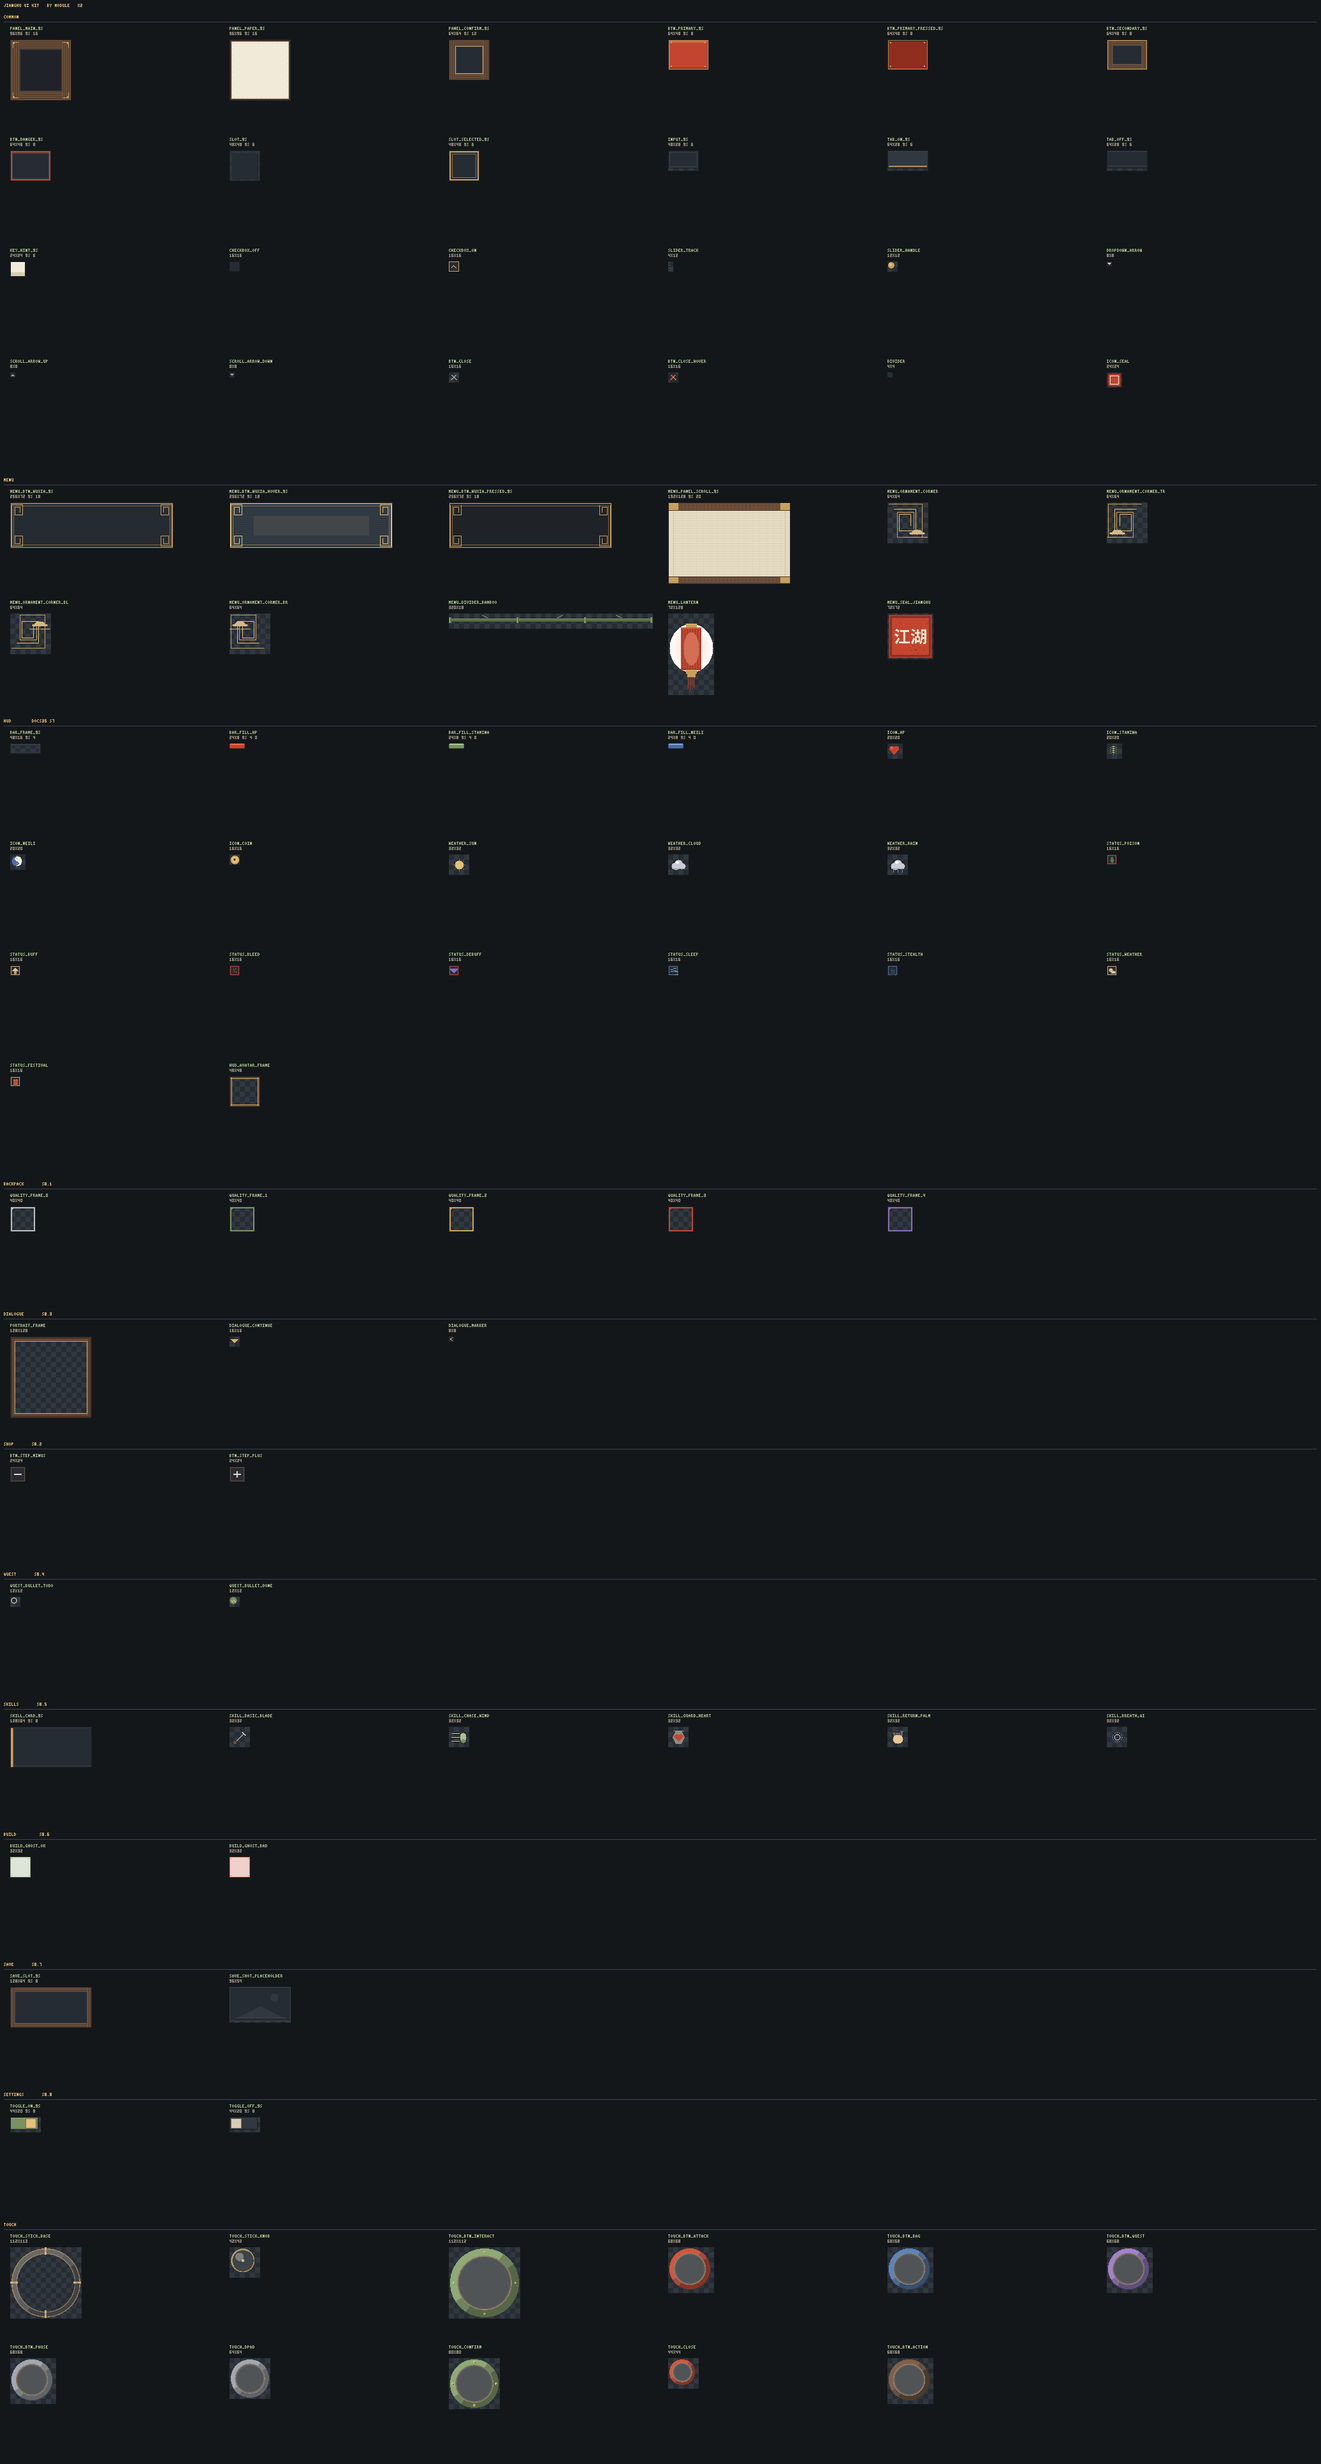
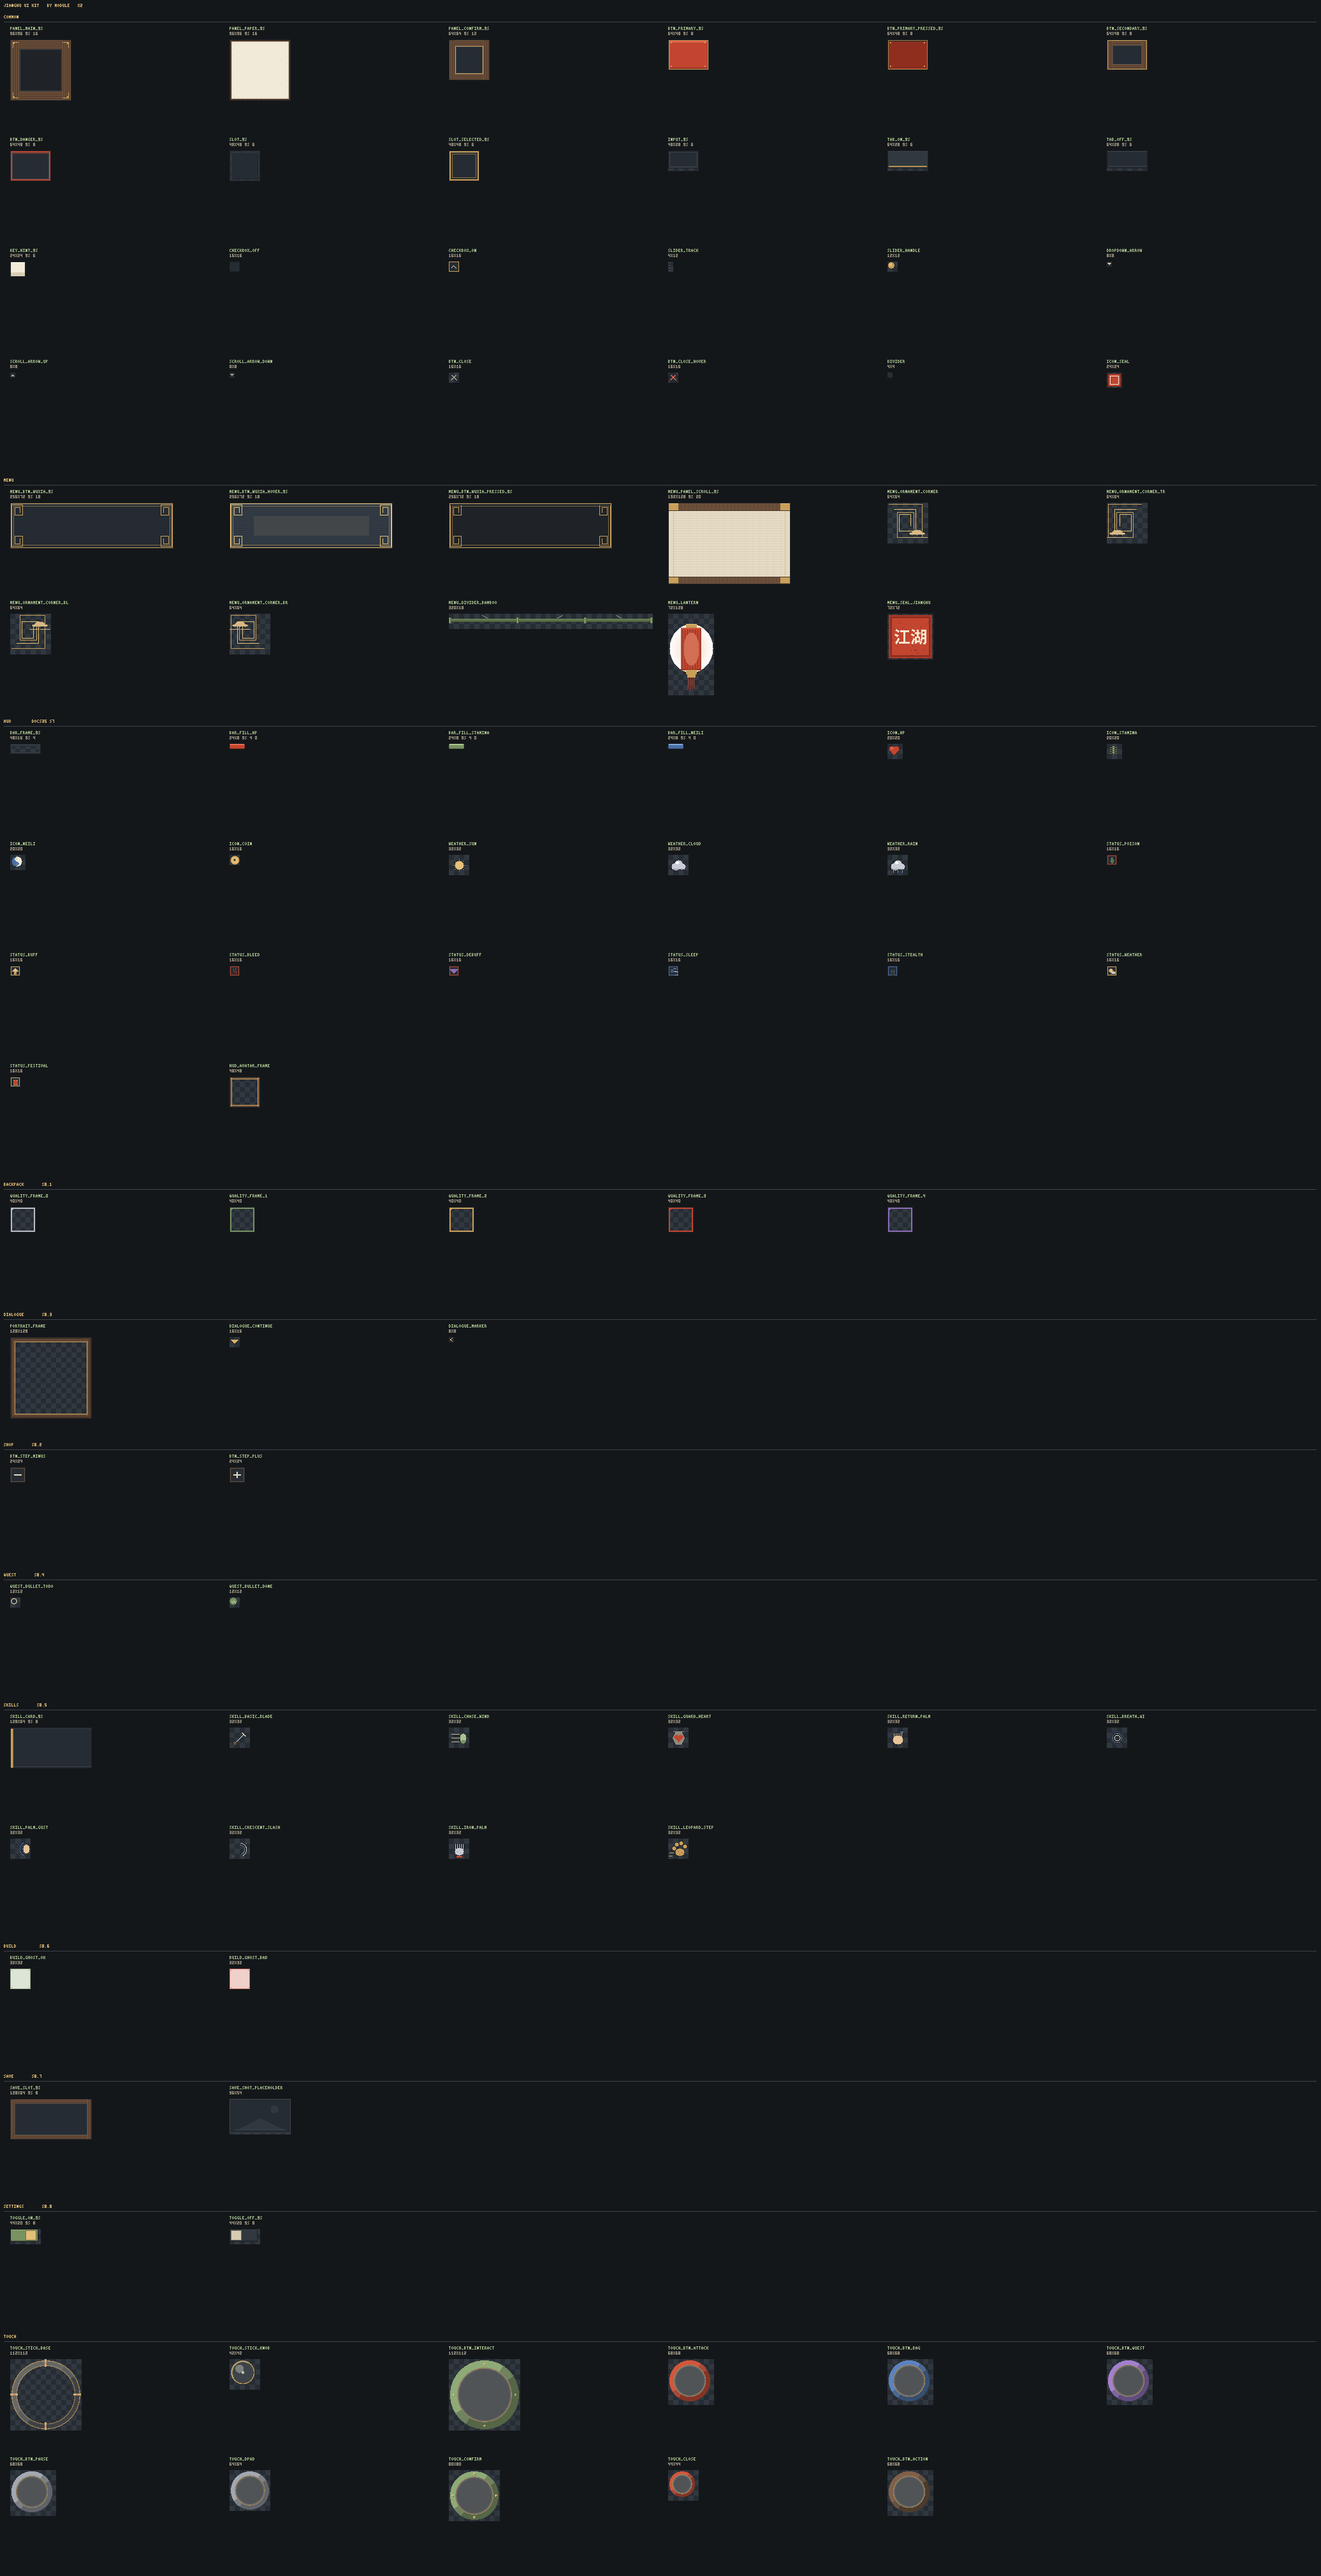
补齐招式图标：SKILL_ICON_KEYS 从 3/7 到 7/7，走生成器出图不凭空画
docs/45 从 M70 那批就登记了这条欠账（四张空卡底），并写明补法要走 gen_ui_art 出图。
新增 palm_gust/crescent_slash/iron_palm/leopard_step 四个 kind（图标名跟 data 层的
招式 id 对齐，不是"豹跃"的直译），skills 模块 6→10 张、全套 96 张；重出幂等：
其余 92 张既有切图逐字节不变。

m70 黄金表的图标探针原本只有 skill_icon1..2（那就是当时的现状），按 skill_name1..8
的排法补到 8 格，表体 124→136 行；先红后刷（不改表时红在第 65 行 hidden 对不上）。
webgl 门 ui elements 34→38、prefab_slice 81/9；微信 19 条 harness_ok；
两包 package.ps1 -SkipBuild 重打，pack 里 10 张招式贴图 HTTP 200 可读。

diff --git a/examples/game_jhyt/tools/gen_ui_art.py b/examples/game_jhyt/tools/gen_ui_art.py
@@ -642,6 +642,50 @@ def skill_icon(kind):
                 angle = step / 28.0 * 6.28318
                 cv.set(16 + int(radius * math.cos(angle)), 16 + int(radius * math.sin(angle)), color)
         cv.set(16, 16, INDIGO500)
+    elif kind == "palm_gust":
+        import math
+
+        skin = rgb("#E8C49A")
+        # 千风掌：右侧一掌推出，左侧四道同心风弧逐层收短——"千风"读的是弧的层数，
+        # 不画五指，免得与回风掌/铁砂掌同骨架、三张并排看像同一式。
+        fill_ellipse(cv, 25, 16, 5, 7, skin)
+        for index, radius in enumerate((20, 16, 12, 8)):
+            color = INDIGO500 if index % 2 == 0 else INDIGO300
+            for step in range(16):
+                angle = -0.85 + step / 15.0 * 1.7
+                x = 30 - int(radius * math.cos(angle))
+                y = 16 - int(radius * math.sin(angle) * 0.9)
+                if 0 <= x <= 31 and 0 <= y <= 31 and not cv.opaque(x, y):
+                    cv.set(x, y, color)
+    elif kind == "crescent_slash":
+        import math
+
+        # 两段同心圆弧相减 = 月牙：外刃 IRON、内缘 IRON_DARK，两端各留一粒火花。
+        for step in range(30):
+            angle = -1.15 + step / 29.0 * 2.6
+            cos, sin = math.cos(angle), math.sin(angle)
+            cv.set(16 + int(11 * cos), 17 - int(11 * sin), IRON)
+            cv.set(16 + int(8 * cos), 17 - int(8 * sin), IRON_DARK)
+        cv.set(5, 27, PAPER50)
+        cv.set(26, 7, PAPER50)
+    elif kind == "iron_palm":
+        # 正掌（与回风掌同骨架：五指各留一缝，靠描边分开）：铁色掌面 + 两粒铁砂 + 朱色腕带。
+        fill_ellipse(cv, 16, 20, 7, 6, IRON)
+        for x in (10, 13, 16, 19, 22):
+            cv.vline(x, 8, 17, IRON)
+            cv.set(x, 8, IRON_DARK)
+        cv.set(13, 20, IRON_DARK)
+        cv.set(18, 22, IRON_DARK)
+        cv.rect(12, 27, 20, 29, CINNABAR)
+    elif kind == "leopard_step":
+        # 豹掌印：掌垫在下、四趾各留缝排成弧；左侧两道 GOLD 横线是"跃"的来路。
+        fill_ellipse(cv, 18, 21, 7, 6, GOLD500)
+        for toe_x, toe_y in ((9, 15), (13, 9), (20, 7), (26, 12)):
+            fill_ellipse(cv, toe_x, toe_y, 3, 3, GOLD500)
+        for spot_x, spot_y in ((16, 20), (21, 22), (18, 25)):
+            cv.set(spot_x, spot_y, CINNABAR900)
+        cv.hline(2, 8, 22, GOLD300)
+        cv.hline(1, 6, 27, GOLD300)
     cv.outline(INK)
     return cv
 
@@ -1319,12 +1363,17 @@ def slice_table():
         ],
         "skills": [
             ("ui_skill_card_9s", skill_card(), "128x64 9S 8", (8, 8, 8, 8)),
-            # 批次 4：五式招式图标（docs/30 §8.2）
+            # 批次 4：五式招式图标（docs/30 §8.2）；后四式跟 `data/skills.lua` 的现阵容对齐
+            # （`palm_gust`/`crescent_slash`/`iron_palm`/`leopard_step`，HUD 卡底要显示它们）。
             ("ui_skill_basic_blade", skill_icon("basic_blade"), "32x32 基础刀法", None),
             ("ui_skill_chase_wind", skill_icon("chase_wind"), "32x32 追风步", None),
             ("ui_skill_guard_heart", skill_icon("guard_heart"), "32x32 守心诀", None),
             ("ui_skill_return_palm", skill_icon("return_palm"), "32x32 回风掌", None),
             ("ui_skill_breath_qi", skill_icon("breath_qi"), "32x32 养气诀", None),
+            ("ui_skill_palm_gust", skill_icon("palm_gust"), "32x32 千风掌", None),
+            ("ui_skill_crescent_slash", skill_icon("crescent_slash"), "32x32 弦月斩", None),
+            ("ui_skill_iron_palm", skill_icon("iron_palm"), "32x32 铁砂掌", None),
+            ("ui_skill_leopard_step", skill_icon("leopard_step"), "32x32 豹跃", None),
         ],
         "build": [
             ("ui_build_ghost_ok", ghost_cell(True), "32x32", None),

diff --git a/engine/crates/game/examples/jhyt_m70_hud_prefab.rs b/engine/crates/game/examples/jhyt_m70_hud_prefab.rs
@@ -7,7 +7,8 @@
 //!     填充+图标/天气图标（晴雨二选一叠图互斥）/8 张招式卡底/全屏雨罩/结局横幅底/6 行状态
 //!     文字/反馈行/目标行/引导行/结局两行。
 //!   * **留动态层（脚本每帧写）**：资源条 fill 宽度（`set_rect` 随比值）、状态图标竖排
-//!     （贴图种类随激活状态，A 态无状态全隐藏）、招式图标（只有 2 招有图，查表动态画）、
+//!     （贴图种类随激活状态，A 态无状态全隐藏）、招式图标（现阵容 7 招各有图，第 8 格没有
+//!     招式槽、查表动态画）、
 //!     招式名（x 随 `measure_text` 居中，预设 Text 定死 x 会偏）、建造幽灵图标（两态切换）。
 //!   * **② 整屏同层对 HUD 豁免**：部分预设 = 静态骨架在实体层、动态元素留动态层，混合是
 //!     设计意图。实体层整体画在动态层之下（`frame_data.rs:869-883`），所以文字/图标/fill
@@ -336,8 +337,17 @@ const PROBES: &[Probe] = &[
         &[],
         Kind::Image,
     ),
+    // 招式图标：与 `txt/skill_name1..8` 同样排满 8 格。曾经只有 1..2 两条，因为
+    // `SKILL_ICON_KEYS` 只映射了 2 招；现阵容 7 招全部有图（第 8 格没有招式槽，那里画的是
+    // 触屏的「更多」键），表体按格数记账，将来加/减映射都会在这里显形。
     probe("img/skill_icon1", "hud:skill_icon1", &[], Kind::Image),
     probe("img/skill_icon2", "hud:skill_icon2", &[], Kind::Image),
+    probe("img/skill_icon3", "hud:skill_icon3", &[], Kind::Image),
+    probe("img/skill_icon4", "hud:skill_icon4", &[], Kind::Image),
+    probe("img/skill_icon5", "hud:skill_icon5", &[], Kind::Image),
+    probe("img/skill_icon6", "hud:skill_icon6", &[], Kind::Image),
+    probe("img/skill_icon7", "hud:skill_icon7", &[], Kind::Image),
+    probe("img/skill_icon8", "hud:skill_icon8", &[], Kind::Image),
     probe("img/build_ghost", "hud:build_ghost", &[], Kind::Image),
     probe("txt/skill_name1", skill_name_probes!("1"), &[], Kind::Text),
     probe("txt/skill_name2", skill_name_probes!("2"), &[], Kind::Text),

diff --git a/CHANGELOG.md b/CHANGELOG.md
@@ -5,6 +5,42 @@
 度量数字（µs、分配字节、测试计数）、逐条证据、golden 断言与实施细节留在能力文档与任务文件里，不在本文重复：
 重构过程见 [docs/53](docs/53-WP0增量场景帧基准与每帧分配.md) 与 [docs/40](docs/40-引擎全面重构计划.md)，已完成任务的验收记录见 `tasks/done/`。
 
+## Unreleased — 招式图标补齐：`SKILL_ICON_KEYS` 从 3/7 到 7/7（走生成器出图，不凭空画）
+
+- **症状**：HUD 招式栏 7 张卡里只有 3 张有图标（普攻/追风步/守心诀），千风掌、弦月斩、铁砂掌、
+  豹跃四格是空卡底。`docs/45` §"它买不到的部分 ①" 从 M70 那批就登记过这条，并写明补法要
+  走 `docs/35`/`docs/48` 的生成器出图，不在那条里凭空画——本批就是那笔欠账。
+- **改法**：`tools/gen_ui_art.py` 的 `skill_icon()` 加四个 kind（`palm_gust` 同心风弧 + 立掌、
+  `crescent_slash` 双弧相减的月牙刃、`iron_palm` 铁色正掌 + 朱腕带、`leopard_step` 豹掌印 +
+  速度线），skills 模块 6 → 10 张、全套切图 96 张；`ui/skin.lua` 登记四个 key、
+  `ui/hud.lua` 的 `SKILL_ICON_KEYS` 补齐到 7 式。图标名跟数据层的招式 id 对齐
+  （**`leopard_step` 而不是"豹跃"的直译**：第一版按 `leopard_leap` 命名，查 `M.binding.cast`
+  才发现真实 id，改名重出）。
+- **重出是幂等的**：`py tools/gen_ui_art.py` 会重写全部切图 + manifest + 两张预览，跑完
+  `git status` 只有 4 张新增 + `manifest.json`/两张 `_preview_*.png` 三处变化，其余 92 张
+  既有 PNG 逐字节不变 ⇒ 生成器仍然可复现，没有夹带别人的手改。
+- **原生门跟着记账**：`jhyt_m70_hud_prefab` 的图标探针原本只有 `skill_icon1..2`（那两条就是
+  当时的现状），现按 `txt/skill_name1..8` 的排法补到 `skill_icon1..8`，黄金表 124 → 136 行；
+  第 52-58 行是七张各不相同的贴图路径，第 59 行 `hidden`（第 8 格没有招式槽，那儿画的是触屏
+  「更多」键）。**先红后刷**：加映射不改表时它红在
+  `黄金对账第 65 行不一致：期望 A\thidden\timg/skill_icon2`，说明这条门真的盯得住卡底内容。
+- **读数**：`verify-webgl-bundle.ps1 -DriveJhyt` ⇒ `ui elements: 34 → 38`（四张新动态图标，
+  这条读数只数动态层所以看得见本批）、`prefab_slice: 81/9`、`prefab_text: 22/22`；
+  `verify-wechat-minigame.ps1` ⇒ 19 条 `harness_ok`、`prefab_slice` 标题屏 `36/4` / 玩法图 `63/7`。
+  两包用 `package.ps1 -SkipBuild` 重打（webgl 与 launcher 的 `web-runtime.js` 仍是 159,148 B
+  逐字节相同；微信 `main_kb=2,091 / 51.0%`、`total_kb=6,786 / 33.1%`），pack 里 10 张招式贴图齐全。
+- **买不到的部分**：黄金表只记"这一格画了哪张路径"，不记图标长得对不对——贴错图（把铁砂掌
+  挂成弦月斩）它照样绿；图标是 32×32 源画进 24×24 卡位，web 侧走 canvas 平滑、原生走 wgpu
+  采样，缩放观感本来就有差，本批没做像素比对；`docs/30` §8.2 还写着旧的五式阵容，与
+  `M.binding` 的七式已经漂移（那是文档账，不在本批里改）。
+- **既有红（与本批无关，都验过）**：`jhyt_m23_data_validation`（`ui.prefab defines validate_all
+  but is not registered`——那两个文件都在 HEAD 状态、本批没碰）、`jhyt_m30_cjk_text`
+  （`pse:h:row1 size=12 want 18`——把本批的 `hud.lua`/`skin.lua` 临时还原成 HEAD 复跑，同样红）、
+  `drive_jhyt nav-exit timeout`、微信 case 5 `--image-src-frozen`。
+- 回滚档：`examples/game_jhyt/tools/gen_ui_art.py` + `assets/art/ui/{skills/*.png,manifest.json,
+  _preview_*.png}` + `scripts/ui/{skin.lua,hud.lua}` + `docs/45` +
+  `engine/crates/game/examples/jhyt_m70_hud_prefab.rs` + `support/jhyt_m70_hud_golden.tsv` + 本文件。
+
 ## Unreleased — 预设贴图的 `nine_slice` 解析完没人读：屏幕 UI 整张拉伸
 
 - **症状**：webgl/微信宿主上，凡是由 `.prefab` 声明的面板与卡底都"边框糊成一大片、里面发黑"——

diff --git a/examples/game_jhyt/docs/45-江湖有田-UI音频与新手引导.md b/examples/game_jhyt/docs/45-江湖有田-UI音频与新手引导.md
@@ -203,7 +203,10 @@
     - 它买不到的部分：① 8 张卡里只有 2 张有图标——`SKILL_ICON_KEYS` 原本还留着 `basic_blade` /
       `return_palm` / `breath_qi` 三个**已从 `data/skills.lua` 删掉的旧 id**（查不到、永不命中，本次
       一并删），现存 8 招只有 `chase_wind`/`guard_heart` 出过图，其余 6 张是空卡底；补图标要按
-      `docs/35`/`docs/48` 走生成器出图，不在本条里凭空画。② 头像框仍然没有头像可画（`docs/47`
+      `docs/35`/`docs/48` 走生成器出图，不在本条里凭空画。**（2026-10-07 已按这条补齐**：生成器出
+      `ui_skill_palm_gust`/`crescent_slash`/`iron_palm`/`leopard_step` 四张，`SKILL_ICON_KEYS` 现覆盖
+      全部 7 式；第 8 格没有招式槽，那里画的是触屏的「更多」键。`jhyt_m70_hud_golden` 的图标探针
+      从 2 条排到 `skill_icon1..8`，表体 124 → 136 行。**）**② 头像框仍然没有头像可画（`docs/47`
       的主角形象是行走序列帧，不是立绘），要么补一张立绘贴图，要么把这格收掉。③ `m29` ⑦ 那条
       docs/48 资源计数门照旧红（`已引用 912 个，与 §1 的 569 不符`），是上面第 8 条就登记过的既有红，
       与本条无关。
